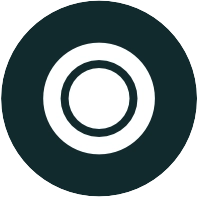
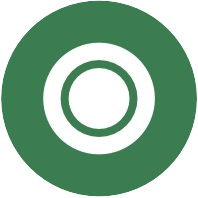
Redesign about

diff --git a/src/components/services/Services.css b/src/components/services/Services.css
@@ -1,8 +1,8 @@
 #services {
-    padding-top: 1rem;
-    padding-bottom: 5rem;
-    padding-left: 5rem;
-    padding-right: 5rem;
+    padding-top: 1vh;
+    padding-bottom: 5vh;
+    padding-left: 15vh;
+    padding-right: 15vh;
     background-color: #112a2d;
     box-shadow: -5px -5px 20px black;
 }
@@ -14,18 +14,36 @@
 }
 
 .service {
-    width: 20vh;
-    height: 30vh;
+    width: 15%;
     background-color: white;
-    color: #112a2d;
+    color: #3B7D4F;
     padding: 1rem;
-    margin: 1rem;
-    border: 5px solid #112a2d;
+    margin: 2rem;
+    border: 5px solid #3B7D4F;
     outline: 5px solid white;
     border-radius: 1rem;
     box-shadow: 5px 5px 20px black;
 }
 
 .service img {
-    height: 45%;
+    height: 9vw;
+}
+
+@media screen and (max-width: 700px) {
+    .service {
+        width: 30%;
+    }
+    #services {
+        padding-left: 2rem;
+        padding-right: 2rem;
+    }
+}
+
+@media screen and (max-width: 434px) {
+    .service {
+        width: 50%;
+    }
+    .service img {
+        height: 9vh;
+    }
 }

diff --git a/src/components/about/About.css b/src/components/about/About.css
@@ -1,20 +1,36 @@
 #about {
-    padding: 3rem 0;
+    padding: 5rem 0;
+    background-image: url('../../images/group.png');
+    background-size: cover;
+    position: relative;
+    z-index: -2;
 }
 
-#about div {
-    background: linear-gradient(to bottom, #112a2d 0%, #112a2d 47%, white 47%, white 53%, #112a2d 53%, #112a2d 100%);
+#about::before {
+    content: "";
+    position: absolute;
+    top: 0;
+    right: 0;
+    bottom: 0;
+    left: 0;
+    background: rgba(0, 0, 0, 0.5);
+    z-index: -2;
 }
 
 #about img {
-    width: 33%;
-    border-radius: 2rem;
-    border: 0.75rem solid #112a2d;
-    outline: 0.75rem solid white;
+    width: 100%;
     box-shadow: 0 0 10px black;
+    filter: brightness(0.5);
 }
 
 #about h1,
 #about p {
-    padding: 0 15rem;
+    padding: 0 10vh;
+    z-index: 2;
+}
+
+@media screen and (max-width: 600px) {
+    #about img {
+        width: 60%;
+    }
 }

diff --git a/src/components/about/About.js b/src/components/about/About.js
@@ -6,9 +6,6 @@ import Img from '../../images/group.png';
 const About = () => {
     return (
         <div id="about">
-            <div>
-                <img src={Img} alt="Heritage team" />
-            </div>
             <h1>About Us</h1>
             <p>Lorem ipsum dolor sit amet, consectetur adipiscing elit, sed do eiusmod tempor incididunt ut labore et dolore magna aliqua.
                 Ut enim ad minim veniam, quis nostrud exercitation ullamco laboris nisi ut aliquip ex ea commodo consequat.

diff --git a/src/App.css b/src/App.css
@@ -4,10 +4,18 @@
   font-family: 'Franklin Gothic Heavy', 'Arial Narrow', Arial, sans-serif;
   margin: 0;
   color: white;
-  background-color: #112a2d;
 }
 
 a {
   text-decoration: none;
   color: white;
+}
+
+@media screen and (max-width: 1100px) {
+  .App {
+      font-size: 0.75rem;
+  }
+  footer {
+    flex-direction: column;
+  }
 }

diff --git a/src/components/services/Services.js b/src/components/services/Services.js
@@ -23,12 +23,6 @@ const services = [
     img: Mowing,
     alt: 'Mowing'
 },
-{
-    title: 'Hauling',
-    description: 'Hauling, Hauling, Hauling',
-    img: Hauling,
-    alt: 'Hauling'
-},
 ];
 
 const Services = () => {

diff --git a/src/components/footer/Footer.css b/src/components/footer/Footer.css
@@ -1,6 +1,7 @@
 footer {
     display: flex;
     justify-content: space-between;
+    flex-direction: row;
     padding: 0 1rem;
     color: white;
     background-color: #112a2d;
